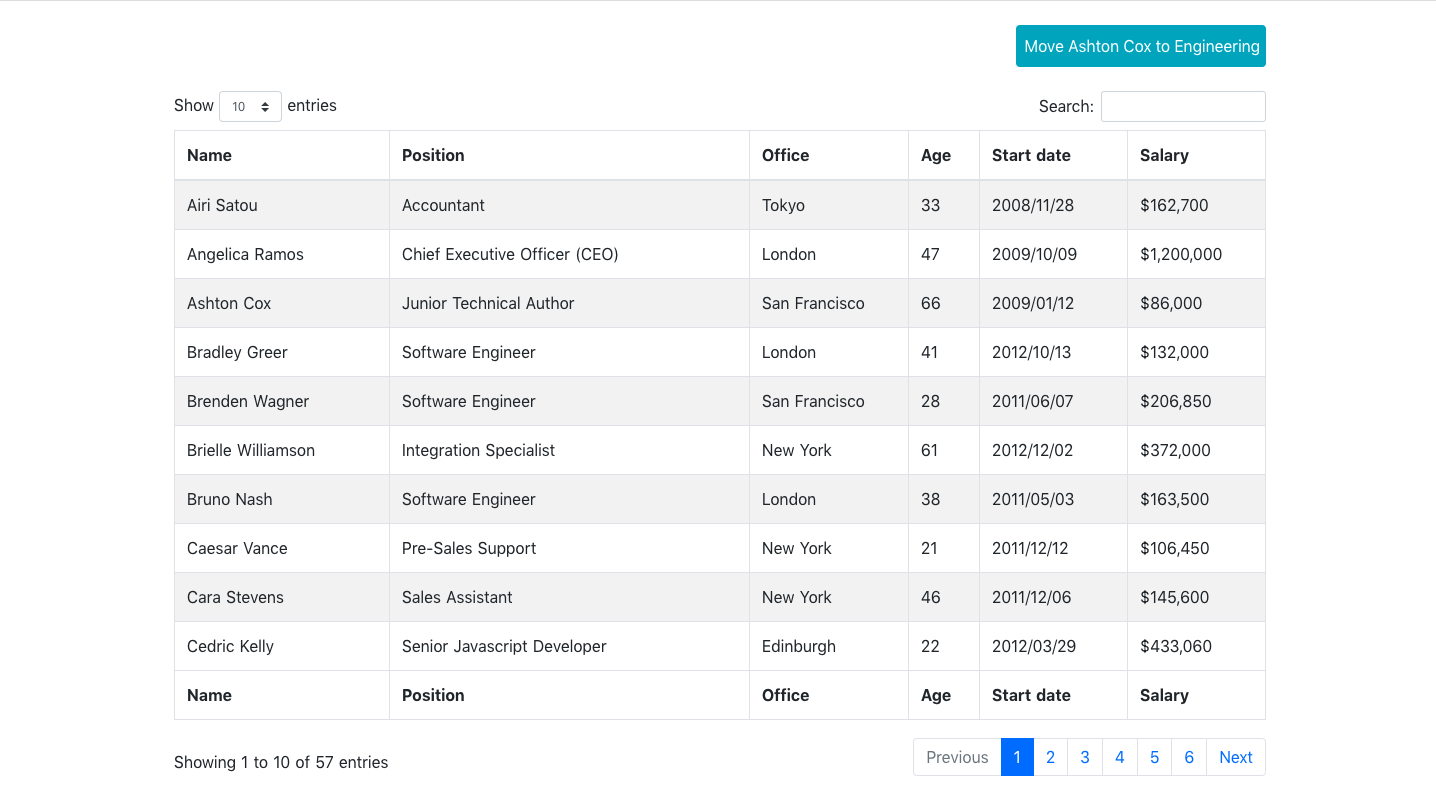
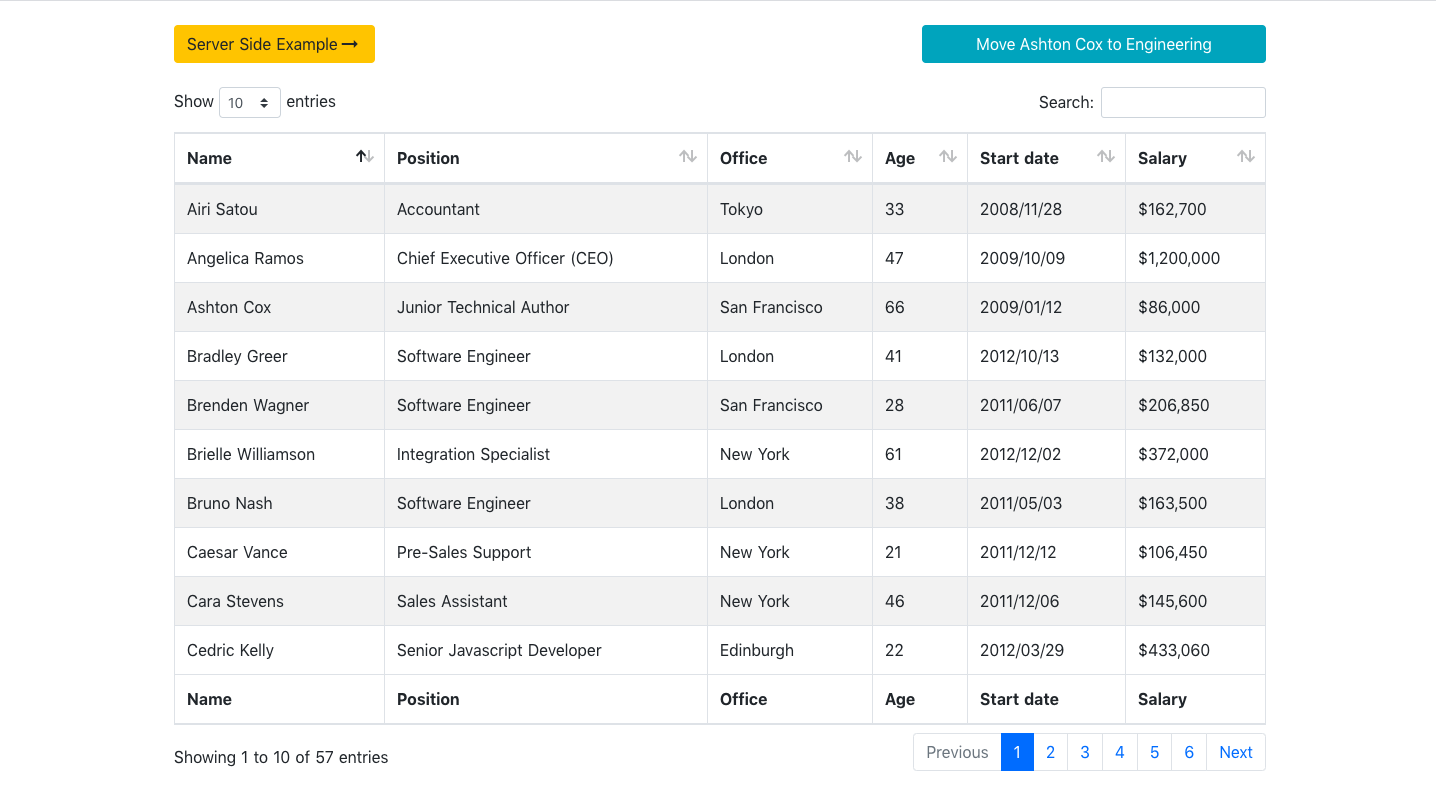
- Add Server side Example

diff --git a/pages/server.vue b/pages/server.vue
@@ -1,0 +1,129 @@
+<template>
+  <div class="container p-4">
+    <div class="row pull-right">
+      <div class="col-md-8 mb-4">
+        <nuxt-link to="/"  class="btn btn-warning">Back to Home<i class="d-inline material-icons float-left">keyboard_backspace</i></nuxt-link>
+      </div>
+      <div class="col-md-4 mb-4">
+        <button class="btn btn-block btn-info" @click="update">
+          Move Ashton Cox to Engineering
+        </button>
+      </div>
+    </div>
+    <table id="example2" class="table table-striped table-bordered" style="width:100%">
+      <thead>
+      <tr>
+        <th>id</th>
+        <th>name</th>
+        <th>position</th>
+        <th>office</th>
+        <th>age</th>
+        <th>startDate</th>
+        <th>salary</th>
+      </tr>
+      </thead>
+    </table>
+  </div>
+</template>
+
+<script>
+    export default {
+        name: "server",
+        metaInfo () {
+            return {
+                script: [
+                    { src: "https://cdn.datatables.net/1.10.20/js/jquery.dataTables.min.js", defer: true, body: true, callback: this.onScriptLoaded },
+                    { src: "https://cdn.datatables.net/1.10.20/js/dataTables.bootstrap4.min.js", body: true, skip: !this.externalLoaded, },
+                ],
+                link: [
+                    { rel: "stylesheet", href: "https://fonts.googleapis.com/icon?family=Material+Icons"}
+                ]
+            }
+        },
+        data() {
+            return {
+                dataTable: null,
+                externalLoaded: false
+            }
+        },
+        mounted() {
+            console.log('table mounted');
+            if(this.dataTable == null){
+                this.onScriptLoaded();
+            }
+        },
+        methods: {
+            onScriptLoaded() {
+                this.externalLoaded = true;
+                console.log('script loaded');
+                setTimeout(()=> {
+                    if(this.dataTable != null) return;
+                    this.dataTable = $('#example2').DataTable({
+                        "processing": true,
+                        "serverSide": true,
+                        "ordering": true,
+                        "lengthChange": true,
+                        "searchDelay": 2000,
+                        "lengthMenu": [ [10, 25, 50, -1], [10, 25, 50, "All"] ],
+                        "ajax": {
+                            "url": "http://localhost:5010/api/employees",
+                            "type": "POST",
+                        },
+                        "columns": [
+                            { data: "id", title: "ID" },
+                            { data: "name", title: "Name" },
+                            { data: "position", title: "Position" },//, render: (data, type, row, meta) => this.positionFormat(data)},
+                            { data: "office", title: "office" },
+                            { data: "age", title: "Age" },
+                            { data: "startDate", title: "Start Date" },
+                            { data: "salary", title: "Salary" },
+                        ]
+                    });
+                },300);
+            },
+            update() {
+                let indexes = this.dataTable
+                    .rows()
+                    .indexes()
+                    .filter(( value, index ) =>  {
+                        return 'Ashton Cox' === this.dataTable.row(value).data()['name'];
+                    });
+
+                if(!indexes[0]){
+                    console.log('No such item');
+                    return;
+                }
+                // console.log(indexes[0]);
+
+                // Get the row for indexes[0]
+                let row = this.dataTable.row(indexes[0]);
+
+                // Get the data for the row
+                let data = row.data();
+
+                // Change the position to `Engineer`
+                data['position'] = 'Software Engineer';
+                data['salary'] = '$256,811';
+                // Update the table data and redraw the table
+                row.data(data);//.draw(false);
+            },
+            positionFormat(position) {
+                if (position === 'Junior Technical Author'){
+                    position = `<span class="btn btn-primary p-2 no-bg">${position}</span>`;
+                }
+                else if (position === 'Software Engineer'){
+                    position = `<span class="btn btn-warning p-2 no-bg">${position}</span>`;
+                }
+                return position = `<span class="btn btn-light p-2  no-bg">${position}</span>`;
+            }
+        }
+    }
+</script>
+
+<style scoped>
+
+  span {
+    background-color: transparent !important;
+  }
+
+</style>

diff --git a/pages/index.vue b/pages/index.vue
@@ -1,7 +1,10 @@
 <template>
 <div class="container p-4">
   <div class="row pull-right">
-    <div class="col-md-4 offset-md-8 mb-4">
+    <div class="col-md-8 mb-4">
+      <nuxt-link to="/server"  class="btn btn-warning">Server Side Example <i class="d-inline material-icons float-right">arrow_right_alt</i></nuxt-link>
+    </div>
+    <div class="col-md-4 mb-4">
       <button class="btn btn-block btn-info" @click="update">
         Move Ashton Cox to Engineering
       </button>
@@ -498,6 +501,9 @@
                 script: [
                     { src: "https://cdn.datatables.net/1.10.20/js/jquery.dataTables.min.js", defer: true, body: true, callback: this.onScriptLoaded },
                     { src: "https://cdn.datatables.net/1.10.20/js/dataTables.bootstrap4.min.js", body: true, skip: !this.externalLoaded, },
+                ],
+                link: [
+                    { rel: "stylesheet", href: "https://fonts.googleapis.com/icon?family=Material+Icons"}
                 ]
             }
         },
@@ -509,6 +515,9 @@
         },
         mounted() {
           console.log('table mounted');
+            if(this.dataTable === null){
+                this.onScriptLoaded();
+            }
         },
         methods: {
             onScriptLoaded() {

diff --git a/README.md b/README.md
@@ -6,8 +6,18 @@ This project demonstrates how to make NuxtJs work with jQuery Datatables.
 
 It also demonstrates how to do a **Real-time** update to the Datatable.
 
-## Screen Shot
+## Server-side Project
+
+The server side of this project can be found at [NuxtDt.Api Server Side](https://www.github.com/NimzyMaina/NuxtDt.Api)
+
+## Screenshots
+### Basic Example
+
 ![alt tag](https://raw.github.com/NimzyMaina/nuxtDt/master/media/nuxtDt.png)
+
+### Server Side Example
+
+![alt tag](https://raw.github.com/NimzyMaina/nuxtDt/master/media/nuxtDt-server.png)
 
 ## Build Setup
 
@@ -30,5 +40,4 @@ For detailed explanation on how things work, check out [Nuxt.js docs](https://nu
 
 ## TODO
 
-- Add **Server Side** Example
 - Add **SignalR Real-time** Update
